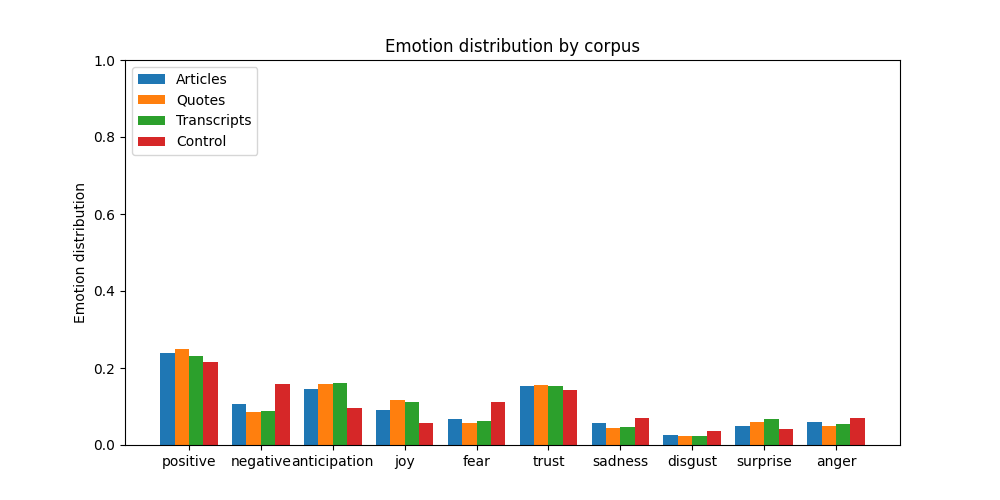
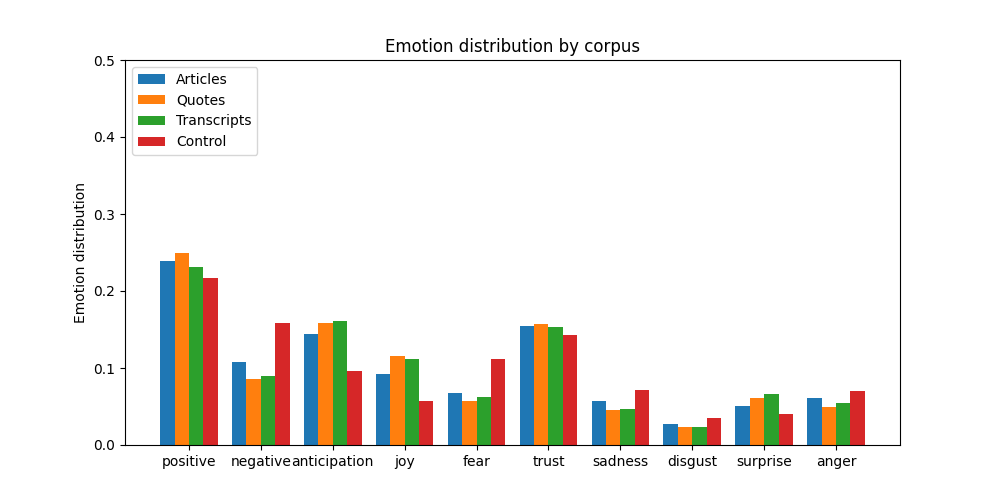
Change y limit of four corpus chart

diff --git a/barchart.py b/barchart.py
@@ -115,7 +115,7 @@ def four_corpora_chart():
     plt.title('Emotion distribution by corpus')
     plt.xticks(x+width+(width/2), emotions)
     plt.legend(loc='upper left')
-    plt.ylim(0, 1)
+    plt.ylim(0, 0.5)
 
 
     plt.savefig('outputs/charts/four_corpus_comparison.png')
@@ -188,4 +188,4 @@ if not os.path.isfile('outputs/aggregated data/distribution_differences.txt'):
 article_freq = {'fear': 0.041811846689895474, 'anger': 0.05574912891986063, 'trust': 0.11498257839721254, 'surprise': 0.08710801393728224, 'positive': 0.28222996515679444, 'negative': 0.07317073170731707, 'sadness': 0.041811846689895474, 'disgust': 0.010452961672473868, 'joy': 0.10801393728222997, 'anticipation': 0.18466898954703834}
 transcript_freq = {'fear': 0.03741496598639456, 'anger': 0.047619047619047616, 'trust': 0.12585034013605442, 'surprise': 0.08843537414965986, 'positive': 0.29591836734693877, 'negative': 0.07142857142857142, 'sadness': 0.03741496598639456, 'disgust': 0.01020408163265306, 'joy': 0.10204081632653061, 'anticipation': 0.1836734693877551}
 
-chart_matches(article_freq, transcript_freq)
+# chart_matches(article_freq, transcript_freq)
